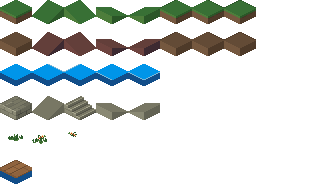
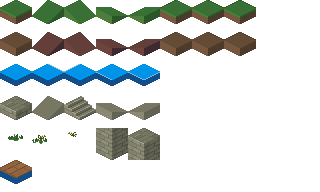
checkpoint

Changed region(s): [[0.2812, 0.6562, 0.5, 0.8438]]

diff --git a/data/maps.js b/data/maps.js
@@ -1,33 +1,44 @@
 GAME_DATA.maps['temple'] = {
 	"tileset": "woodlands",
 	"tiles": [
-		[[21,31,31,31,31,31,31,31,31,31,31],[21,31,31,31,31,31,31,31,31,31,31],[21,31,31,31,31,31,31,31,31,31,31],[21,31,31,31,31,31,31,31,31,31,31],
-			[21,31,31,31,31,31,31,31,31,31,31],[21,31,31,31,31,31,31,31,31,31,31],[21,31,31,31,31,31,31,31,31,31,31],[21,31,31,31,31,31,31,31,31,31,31],
-			[21,31,31,31,31,31,31,31,31,31,31],[21,31,31,31,31,31,31,31,31,31],[21,31,31,31,31,31,31,31,31],[31,31,31,31,31,31,31,31],
-			[31,31,31,31,31,31,31,31],[31,31,31,31,31,31,31,31],[31,31,31,31,31,31,31,31]],
-		[[21,31,31,31,31,31], [21,0,0,0,0,31], [21,0,0,0,0,31], [21,0,0,0,0,31], [21,0,0,0,0,31], [21,0,0,0,0,31], [21,0,0,0,0,31], [21,0,0,0,0,31], [1,1,1,1,1,31], [1,1,1,1,1,33], [1,1,1,1,33], [1,1,1,33], [11,11,8], [11,11,7], [11,11,7]],
-		[[21,0,0,0,0,31], [21,0,0,0,0,31], [21,0,0,0,0,31], [21,0,0,0,0,31], [21,0,0,0,0,31], [21,0,0,0,0,31], [21,0,0,0,0,31], [21,0,0,0,0,31], [1,1,1,1,1,31], [1,1,1,1,1,33], [1,1,1,1,33], [1,1,1,33], [11,11,6], [11,11,1], [11,11,1]],
-		[[31,31,31,31,31,31,31,31,31,31,31], [23,0,0,0,0,31], [21,0,0,0,0,31], [21,0,0,0,0,31], [31,31,31,31,31,31,31,31,31,31,31], [23,0,0,0,0,31], [21,0,0,0,0,31], [21,0,0,0,0,31], [31,31,31,31,31,31,31,31,31,31,31], [31,31,31,31,31,33], [31,31,31,31,33], [31,31,31,33],[11,11,6], [11,11,1], [11,11,1]],
-		[[22], [21], [21], [21], [22], [21], [21], [41], [41], [11,8], [11,11,8], [11,11,7], [11,11,1], [11,11,1], [11,11,1]],
-		[[21], [21], [21], [21], [21], [21], [21], [41], [41], [11,6], [11,11,6], [11,11,1], [11,11,1], [11,11,1], [11,11,1]],
-		[[21], [21], [21], [41], [41], [41], [41], [41], [41], [11,6], [11,11,6], [11,11,1], [11,11,1], [11,11,1], [11,11,1]],
-		[[21], [21], [21], [41], [41], [41], [41], [41], [41], [11,6], [11,11,6], [11,11,1], [11,11,1], [11,11,1], [11,11,1]],
-		[[21], [21], [21], [22], [22], [22], [22], [41], [41], [11,6], [11,11,6], [11,11,1], [11,11,1], [11,11,1], [11,11,1]],
-		[[21], [21], [21], [21], [21], [21], [21], [41], [41], [11,6], [11,11,6], [11,11,1], [11,11,1], [11,11,1], [11,11,1]],
-		[[21], [21], [21], [21], [21], [21], [21], [41], [41], [31,31,31], [31,31,31,31], [31,31,31,31], [31,31,31,31], [31,31,31,31], [31,31,31,31]],
+		[
+			[21,31,31,31,31,31,31,31,31,31,31],[21,31,31,31,31,31,31,31,31,31,31],[21,31,31,31,31,31,31,31,31,31,31],
+			[21,31,31,31,31,31,31,31,31,31,31],[21,31,31,31,31,31,31,31,31,31,31],[21,31,31,31,31,31,31,31,31,31,31],
+			[21,31,31,31,31,31,31,31,31,31,31],[21,31,31,31,31,31,31,31,31,31,31],[21,31,31,31,31,31,31,31,31,31,31],
+			[21,31,31,31,31,31,31,31,31,31],[21,31,31,31,31,31,31,31,31],[31,31,31,31,31,31,31,31],
+			[31,31,31,31,31,31,31,31],[31,31,31,31,31,31,31,31],[31,31,31,31,31,31,31,31],[31,31,31,31,31,31,31,31],[31,31,31,31,31,31,31,31]
+		],
+		[[21,31,31,31,31,31], [21,0,0,0,0,31], [21,0,0,0,0,31], [21,0,0,0,0,31], [21,0,0,0,0,31], [21,0,0,0,0,31], [21,0,0,0,0,31], [21,0,0,0,0,31], [1,1,1,1,1,31], [1,1,1,1,1,33], [1,1,1,1,33], [1,1,1,33], [11,11,31], [11,11,8], [11,11,7], [11,11,7], [11,11,7]],
+		[[21,0,0,0,0,31], [21,0,0,0,0,31], [21,0,0,0,0,31], [21,0,0,0,0,31], [21,0,0,0,0,31], [21,0,0,0,0,31], [21,0,0,0,0,31], [21,0,0,0,0,31], [1,1,1,1,1,31], [1,1,1,1,1,33], [1,1,1,1,33], [1,1,1,33], [11,11,31], [11,11,6], [11,11,1], [11,11,1], [11,11,1]],
+		[[31,31,31,31,31,31,-1], [23,0,0,0,0,31], [21,0,0,0,0,31], [21,0,0,0,0,31], [31,31,31,31,31,31,-1], [23,0,0,0,0,31], [21,0,0,0,0,31], [21,0,0,0,0,31], [31,31,31,31,31,31,-1], [31,31,31,31,31,33], [31,31,31,31,33], [31,31,31,33],[11,11,31], [11,11,6], [11,11,1], [11,11,1], [11,11,1]],
+		[[22], [21], [21], [21], [22], [21], [21], [21], [31], [11,31], [11,11,31], [11,11,31], [11,11,31], [11,11,6], [11,11,1], [11,11,1], [11,11,1]],
+		[[21], [21], [21], [21], [21], [21], [41], [41], [31], [11,6], [11,11,8], [11,11,7], [11,11,7], [11,11,1], [11,11,1], [11,11,1], [11,11,1]],
+		[[21], [21], [21], [21], [21], [21], [41], [41], [31], [11,6], [11,11,6], [11,11,1], [11,11,1], [11,11,1], [11,11,1], [11,11,1], [11,11,1]],
+		[[21], [21], [21], [21], [21], [21], [41], [41], [31], [11,6], [11,11,6], [11,11,1], [11,11,1], [11,11,1], [11,11,1], [11,11,1], [11,11,1]],
+		[[21], [21], [21], [21], [21], [21], [41], [41], [31], [11,6], [11,11,6], [11,11,1], [11,11,1], [11,11,1], [11,11,1], [11,11,1], [11,11,1]],
+		[[21], [21], [21], [21], [21], [21], [41], [41], [31], [11,6], [11,11,6], [11,11,1], [11,11,1], [11,11,1], [11,11,1], [11,11,1], [11,11,1]],
+		[[21], [21], [21], [21], [21], [21], [22], [22], [31], [31,31], [31,31,31], [31,31,31], [31,31,31], [31,31,31], [31,31,31], [31,31,31], [31,31,31]],
+		[[21], [21], [21], [21], [21], [21], [21], [21],[22],[22],[22],[22],[22],[22],[22],[22],[22],],
 	],
 	"decorations": [
 		[0,0,0,0,0,0,0,0,0,0,0,0,0,0,0],
-		[0,0,0,0,0,0,0,0,0,0,0,0,1,0,0],
+		[0,0,0,0,0,0,0,0,0,0,0,0,0,1,0],
 		[0,0,0,0,0,0,0,0,0,0,0,0,0,0,0],
-		[0,0,0,0,0,0,0,0,0,0,0,0,2,0,0],
+		[[4,5],0,0,0,[4,5],0,0,0,[4,5],0,0,0,0,0,0],
+		[0,0,0,0,0,0,0,0,0,0,0,0,0,2,0],
 		[0,0,0,0,0,0,0,0,0,0,1,3,0,0,0],
 		[0,0,0,0,0,0,0,0,0,0,0,0,0,0,0],
 		[0,0,0,0,0,0,0,0,0,0,0,0,0,0,0],
 		[0,0,0,0,0,0,0,0,0,0,0,0,0,0,0],
-		[0,0,0,0,0,0,0,0,0,0,0,0,0,0,0],
 		[0,0,0,0,0,0,0,0,0,0,0,0,0,0,0]
-	]
+	],
+	"obstructions": {
+		3: {
+			0: ["2-0"],
+			4: ["1-1","1-2","1-3","2-2","2-3","2-4","3-3"],
+			8: ["1-5","1-6","1-7","2-6","2-7","2-8","3-7"]
+		}
+	}
 };
 
 GAME_DATA.maps['woodlands'] = {

diff --git a/src/models/Map.js b/src/models/Map.js
@@ -52,6 +52,13 @@ class Location {
         
         this.decorations = GeneralLogic.toArray(configuration.decorations[x]?.[y]);
         this.decorations = this.decorations.map(id => new Tile(id, 'decorations', tileset.configuration.decorations[id]));
+
+        this.obstructs = configuration?.obstructions[x]?.[y] || null;
+        this.fade = false;
+        this.ms = 0;
+        this.delta = 0;
+        this.duration = 500;
+        this.opacity = 100;
     }
 
     get sw() { return this.spriteHeight; }
@@ -68,9 +75,10 @@ class Location {
     get posX() { return (this.y * (this.tw / 2)) - (this.x * (this.tw / 2)) + this.ox; }
     get posY() { return (this.y * (this.td / 2)) + (this.x * (this.td / 2)) + this.oy - ((this.z - 1) * this.th); }
 
-    get isWater()     { return this.tile.water;       }
-    get isSloped()    { return this.tile.slope;       }
-    get orientation() { return this.tile.orientation; }
+    get isReachable() { return this.tile.unreachable !== true; }
+    get isWater()     { return this.tile.water;        }
+    get isSloped()    { return this.tile.slope;        }
+    get orientation() { return this.tile.orientation;  }
 }
 
 class Map {
@@ -95,6 +103,9 @@ class Map {
                 this.layout[x].push(point);
             }
         }
+
+        this.pointOfFocus = null;
+        this.pointsOfInterest = new Array();
 
         this.sorted = new Object();
         this.sorted.X = [].concat(...this.layout).sort((a, b) => (a.x - b.x) ? a.x - b.x : a.y - b.y);
@@ -128,5 +139,56 @@ class Map {
 
     forEach(fn, order = 'X') {
         this.getSorted(order).forEach(location => fn(location));
+    }
+
+    changePointOfFocus(location = null) {
+        if (this.pointOfFocus === location)
+            return;
+
+        if (this.pointOfFocus !== null && !this.pointsOfInterest.includes(this.pointOfFocus)) {
+            this.getSorted().filter(loc => loc.obstructs !== null && loc.obstructs.includes(`${this.pointOfFocus.x}-${this.pointOfFocus.y}`)).forEach(obstructor => {
+                if (this.pointsOfInterest.some(poi => obstructor.obstructs.includes(`${poi.x}-${poi.y}`)))
+                    return;
+                obstructor.ms = (obstructor.ms !== 0) ? obstructor.duration - obstructor.ms : 0;
+                obstructor.fade = false;
+            });
+        }
+
+        if (location !== null) {
+            this.getSorted().filter(loc => loc.obstructs !== null && loc.obstructs.includes(`${location.x}-${location.y}`)).forEach(obstructor => {
+                obstructor.ms = (obstructor.ms !== 0) ? obstructor.duration - obstructor.ms : 0;
+                obstructor.fade = true;
+            });
+
+        }
+
+        this.pointOfFocus = location;
+    }
+
+    addPointOfInterest(location = null) {
+        if (location === null || this.pointsOfInterest.includes(location))
+            return;
+        
+        this.pointsOfInterest.push(location);
+        this.getSorted().filter(loc => loc.obstructs !== null && loc.obstructs.includes(`${location.x}-${location.y}`)).forEach(obstructor => {
+            obstructor.ms = (obstructor.ms !== 0) ? obstructor.duration - obstructor.ms : 0;
+            obstructor.fade = true;
+        });
+    }
+
+    removePointOfInterest(location = null) {
+        if (location === null)
+            return;
+
+        const index = this.pointsOfInterest.indexOf(location);
+        if (index !== -1) {
+            this.pointsOfInterest.splice(index, 1);
+            this.getSorted().filter(loc => loc.obstructs !== null && loc.obstructs.includes(`${location.x}-${location.y}`)).forEach(obstructor => {
+                if (obstructor === this.pointOfFocus || this.pointsOfInterest.some(poi => obstructor.obstructs.includes(`${poi.x}-${poi.y}`)))
+                    return;
+                obstructor.ms = (obstructor.ms !== 0) ? obstructor.duration - obstructor.ms : 0;
+                obstructor.fade = false;
+            });
+        }
     }
 }

diff --git a/src/controllers/Combat.js b/src/controllers/Combat.js
@@ -72,6 +72,7 @@ class CombatController {
         this.beasts.forEach(beast => {
             const location = this.map.getLocation(beast.location.x, beast.location.y);
             beast.initialize(location);
+            this.map.addPointOfInterest(location);
         });
     }
 
@@ -154,15 +155,18 @@ class CombatController {
 
         this.state = this.states.MOVE_CONFIRM;
 
-        const stepListenerId = Events.listen('move-step', (animation) => {
-            this.interface._updateHeight(animation.destination.z);
+        const stepListenerId = Events.listen('move-step', (data) => {
+            this.interface._updateHeight(data.animation.destination.z);
+            this.map.removePointOfInterest(data.previous);
+            this.map.addPointOfInterest(data.animation.destination);
         }, true);
-        Game.actions.move(this.active, BeastLogic.getPath(location, this.markers.range)).then(() => {
+        Game.actions.move(this.active, BeastLogic.getPath(location, this.markers.range)).then((data) => {
             this.state = this.states.PLAYER_TURN;
             this.interface.confirmMove(this.active.getRemainingMovement());
             this.interface._updateHeight(this.active.location.z);
             this.markers.clear();
-
+            this.map.removePointOfInterest(data.previous);
+            this.map.addPointOfInterest(data.animation.destination);
             Events.remove('move-step', stepListenerId);
         });
         this.markers.range = null;
@@ -176,7 +180,9 @@ class CombatController {
 
     resetMove() {
         if (this.active.traveled.last !== 0) {
-            Game.actions.resetMove(this.active);
+            this.map.removePointOfInterest(this.active.location);
+            Game.actions.resetMove(this.active).then(() => this.map.addPointOfInterest(this.active.location));
+            this.map.addPointOfInterest(this.active.location)
             this.interface.resetMove(this.active);
             this.requestMove();
         }
@@ -260,9 +266,10 @@ class CombatController {
     }
 
     _updateFocus(location) {
-        if (this.focus === location)
+        if (this.markers.focus === location)
             return;
         
+
         switch(this.state) {
             case this.states.MOVE_REQUEST:
                 if (BeastLogic.isValidSelection(location, this.markers.range)) {
@@ -292,6 +299,8 @@ class CombatController {
             default:
                 this.markers.focus = null;
         }
+
+        this.map.changePointOfFocus(this.markers.focus);
     }
 
     // -------------------

diff --git a/data/tilesets/maps.js b/data/tilesets/maps.js
@@ -32,9 +32,10 @@ GAME_DATA.tilesets.maps['woodlands'] = {
             //        slashing: 55
             //     }
             // },
-            00: {
+            "-1": {
                 name: "Empty, Unreachable",
                 idx: -1,
+                oy: 8,
                 unreachable: true
             },
             0: {
@@ -209,43 +210,12 @@ GAME_DATA.tilesets.maps['woodlands'] = {
                 idx: 42
             },
             4: {
-                name: "Post",
-                idx: 52
+                name: "Stone Column Bottom",
+                idx: 43
             },
             5: {
-                name: "Shadow",
-                idx: 53,
-                oy: 16
-            },
-            10: {
-                name: "Waterfall",
-                oy: 16,
-                ox: 16,
-                frames: [
-                    { "idx": 30, "ms": 200 },
-                    { "idx": 31, "ms": 200 },
-                    { "idx": 32, "ms": 200 },
-                    { "idx": 33, "ms": 200, "next": 10 }
-                ]
-            },
-            11: {
-                name: "Frozen Waterfall",
-                idx: -1
-            },
-            12: {
-                name: "Waterfall Extension",
-                oy: 80,
-                ox: 16,
-                frames: [
-                    { "idx": 34, "ms": 200 },
-                    { "idx": 35, "ms": 200 },
-                    { "idx": 36, "ms": 200 },
-                    { "idx": 37, "ms": 200, "next": 12 }
-                ]
-            },
-            13: {
-                name: "Frozen Waterfall Extension",
-                idx: -1
+                name: "Stone Column Top",
+                idx: 44
             }
         }
     }

diff --git a/src/renderers/Map.js b/src/renderers/Map.js
@@ -12,6 +12,22 @@ class MapRenderer {
                 while ((tile.ms + tile.delta) > tile.frames[tile.idx].ms)
                     MapRenderer.nextFrame(tile, map);
             });
+
+            // fading for obstructions
+            if (location.obstructs === null)
+                return;
+                
+            if (location.fade && location.opacity !== 50) {
+                location.ms += ~~!isDeltaUpdate * adjustedMs;
+                location.opacity = 100 - Math.min(((location.ms + (~~isDeltaUpdate * adjustedMs)) / location.duration) * 50, 50);
+                if (location.opacity === 50)
+                    location.ms = 0;
+            } else if (!location.fade && location.opacity !== 100) {
+                location.ms += ~~!isDeltaUpdate * adjustedMs;
+                location.opacity = 50 + Math.min(((location.ms + (~~isDeltaUpdate * adjustedMs)) / location.duration) * 50, 50);
+                if (location.opacity === 100)
+                    location.ms = 0;
+            }
         });
     }
 
@@ -51,6 +67,8 @@ class MapRenderer {
           
             Game.ctx.save();
             Game.ctx.translate(Game.camera.getPosX() + (translateX * scaling), Game.camera.getPosY() + (translateY * scaling));
+
+            Game.ctx.filter = `opacity(${location.opacity}%)`;
 
             Game.ctx.drawImage(
                 map.img,

diff --git a/src/logic/Beast.js b/src/logic/Beast.js
@@ -102,7 +102,7 @@ class BeastLogic {
                 map.getLocation(location.x + 1, location.y),
                 map.getLocation(location.x - 1, location.y)
             ).forEach(next => {
-                if (next === undefined)
+                if (next === undefined || !next.isReachable)
                     return;
 
                 if (config.isHazard && ((CombatLogic.getOrientation(location, next) != CombatLogic.getOrientation(opts.previous, location)) || !config.canLeap))
@@ -185,9 +185,14 @@ class BeastLogic {
             });
 
             animation.events = new Object();
-            animation.events.end = { id: 'move-step', data: animation };
-            if (location === destination)
-                animation.events.end = { id: 'move-complete', data: unit };
+            animation.events.end = {
+                id: (location === destination) ? 'move-complete' : 'move-step', 
+                data: {
+                    unit,
+                    animation,
+                    previous: previous.destination
+                }
+            };
 
             animations.push(animation);
             previous = animation;

diff --git a/data/scenes.js b/data/scenes.js
@@ -4,21 +4,21 @@ GAME_DATA.scenes['temple'] = {
     beasts: [
         {
             id: 'player',
-            x: 4,
-            y: 7,
+            x: 3,
+            y: 2,
             orientation: 'south',
             equipment: {
                 weapon: 'knife',
                 accessory_1: 'buckler',
             },
         },
-        {
-            id: 'slime',
-            x: 1,
-            y: 14,
-            orientation: 'south',
-            basic: 'bow'
-        }
+        // {
+        //     id: 'slime',
+        //     x: 1,
+        //     y: 2,
+        //     orientation: 'south',
+        //     basic: 'bow'
+        // }
     ]
 };
 

diff --git a/src/mediators/Actions.js b/src/mediators/Actions.js
@@ -9,11 +9,11 @@ class Actions {
               distance = Math.abs(destination.x - origin.x) + Math.abs(destination.y - origin.y);
 
         const complete = (resolve) => {
-            const id = Events.listen('move-complete', (actor) => {
-                if (actor !== unit)
+            const id = Events.listen('move-complete', (data) => {
+                if (data.unit !== unit)
                     return;
                 Events.remove('move-complete', id);
-                resolve();
+                resolve(data);
             }, true);
         };
 

diff --git a/data/beasts.js b/data/beasts.js
@@ -28,7 +28,7 @@ GAME_DATA.beasts['player'] = {
     "species": "humanoid",
     "tileset": "player",
     "stats": {
-        "move": 5,
+        "move": 20,
         "jump": 2,
         "speed": 50,
         "health": 35
